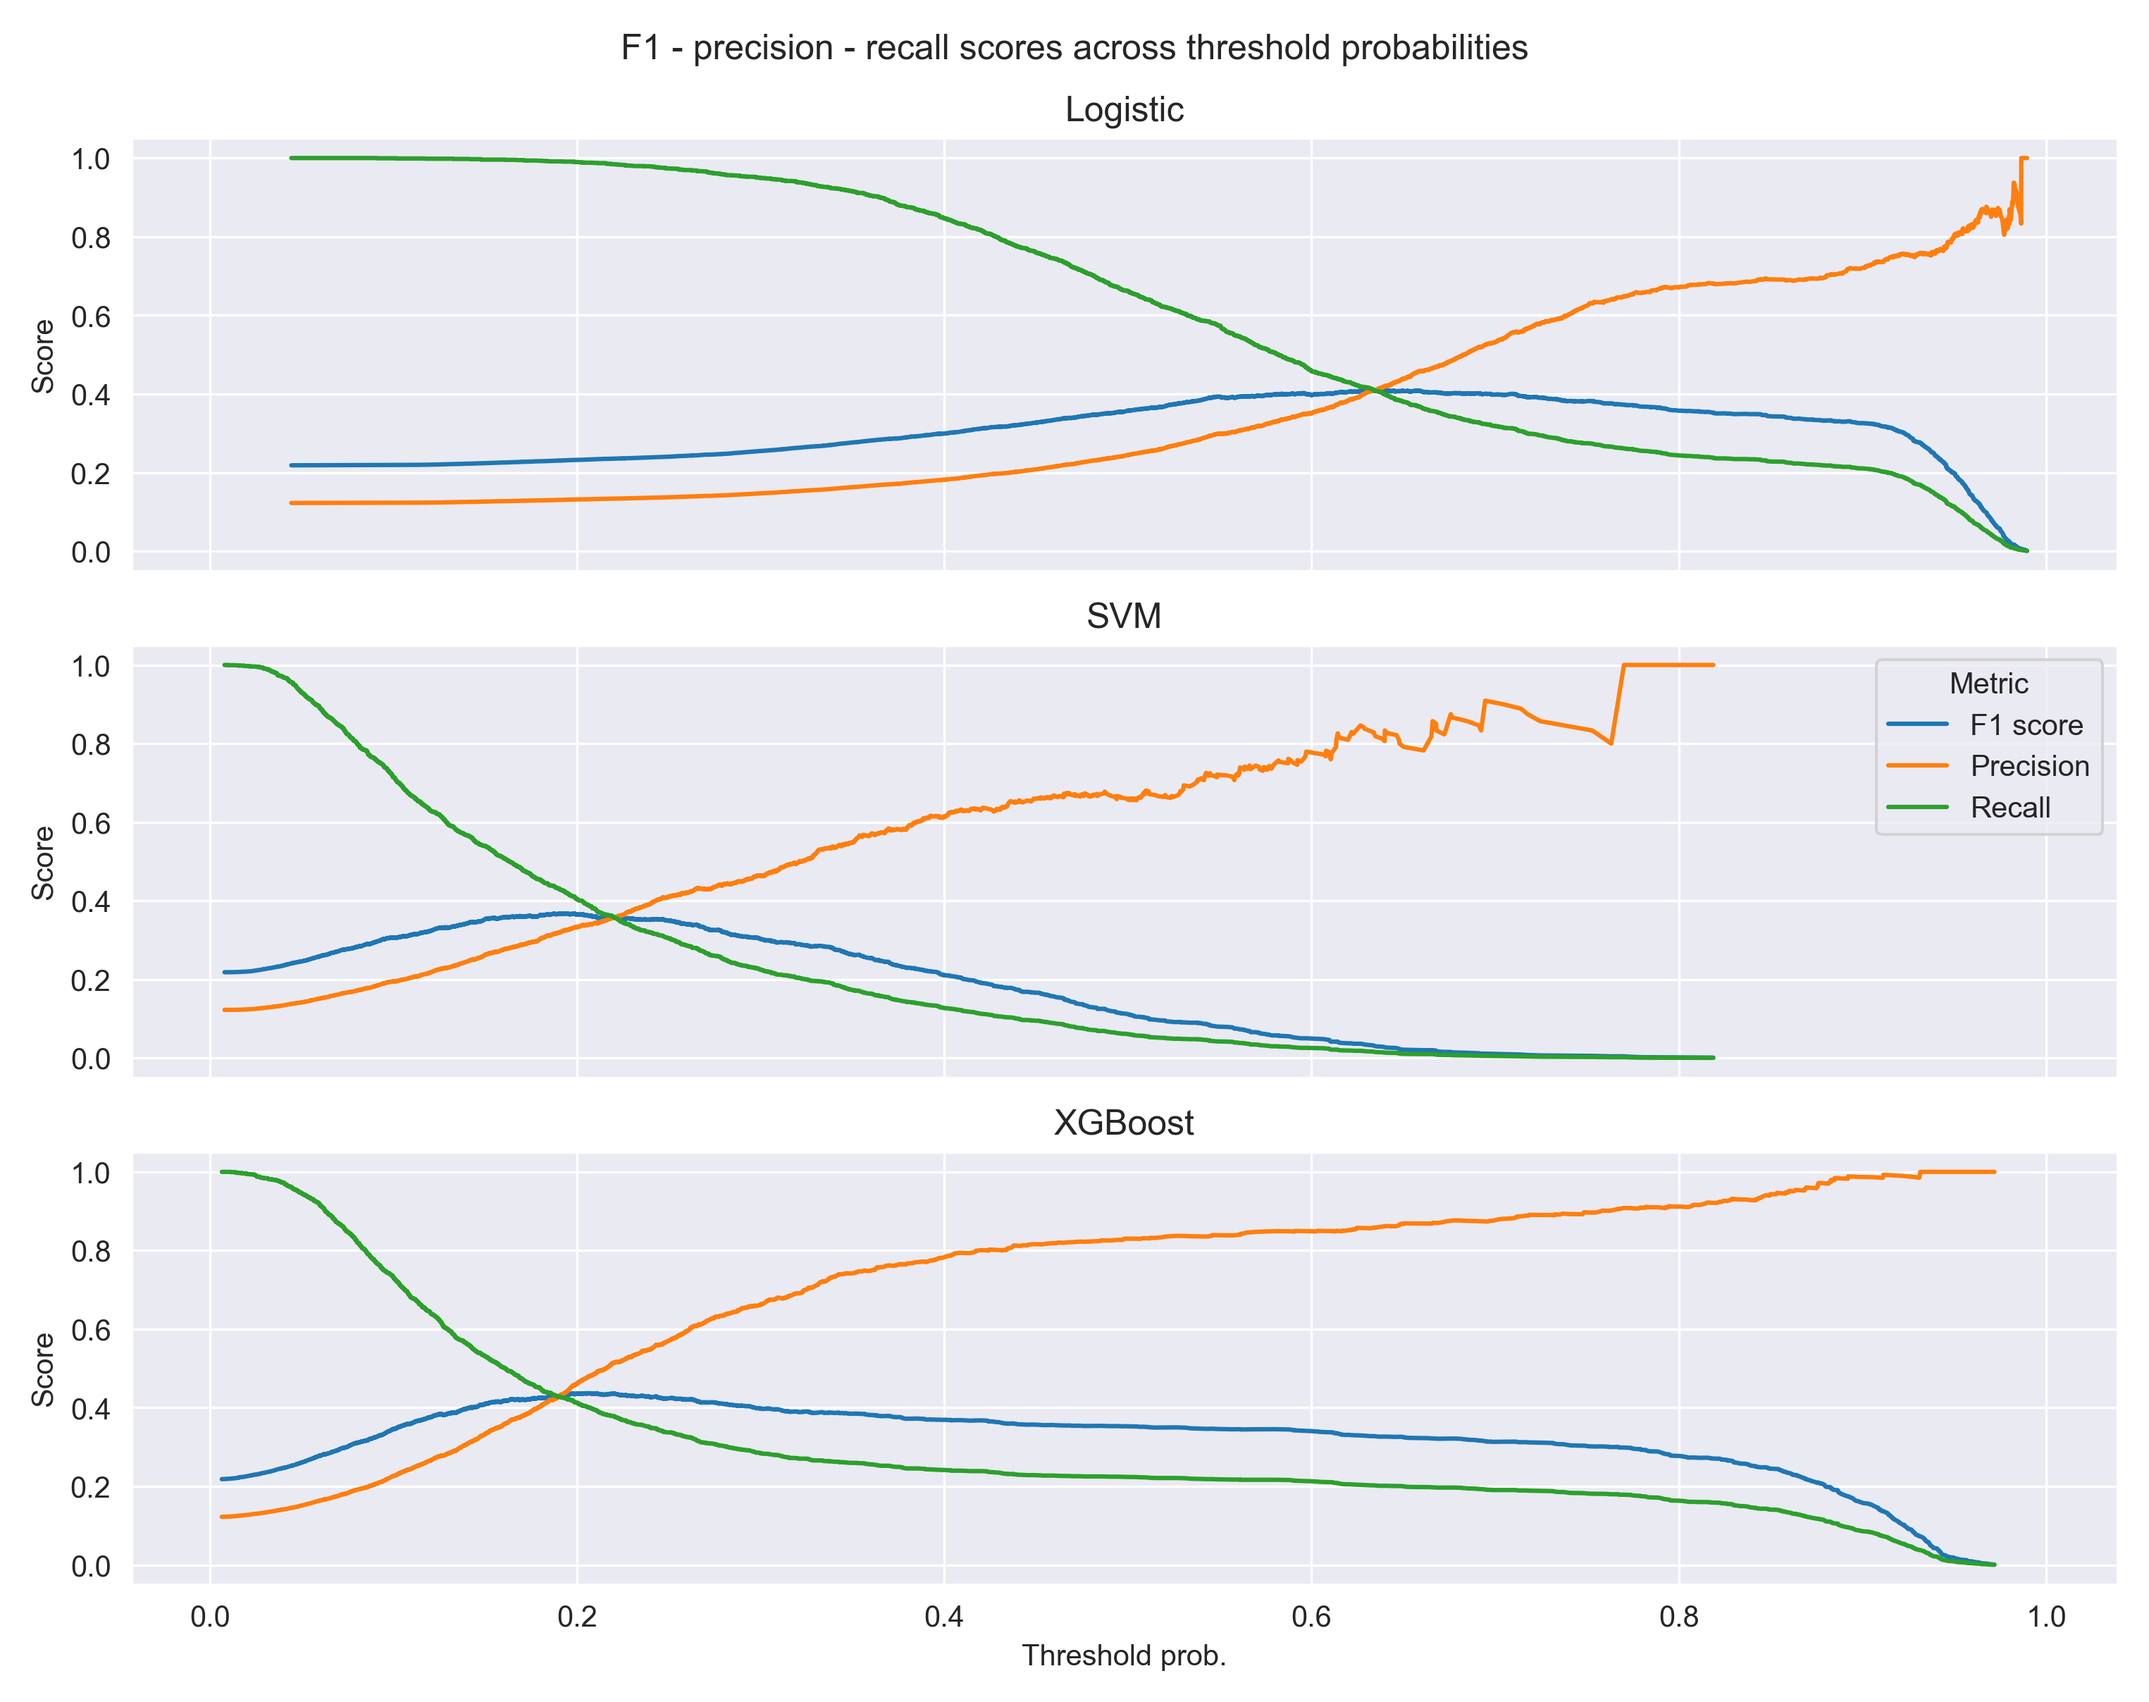
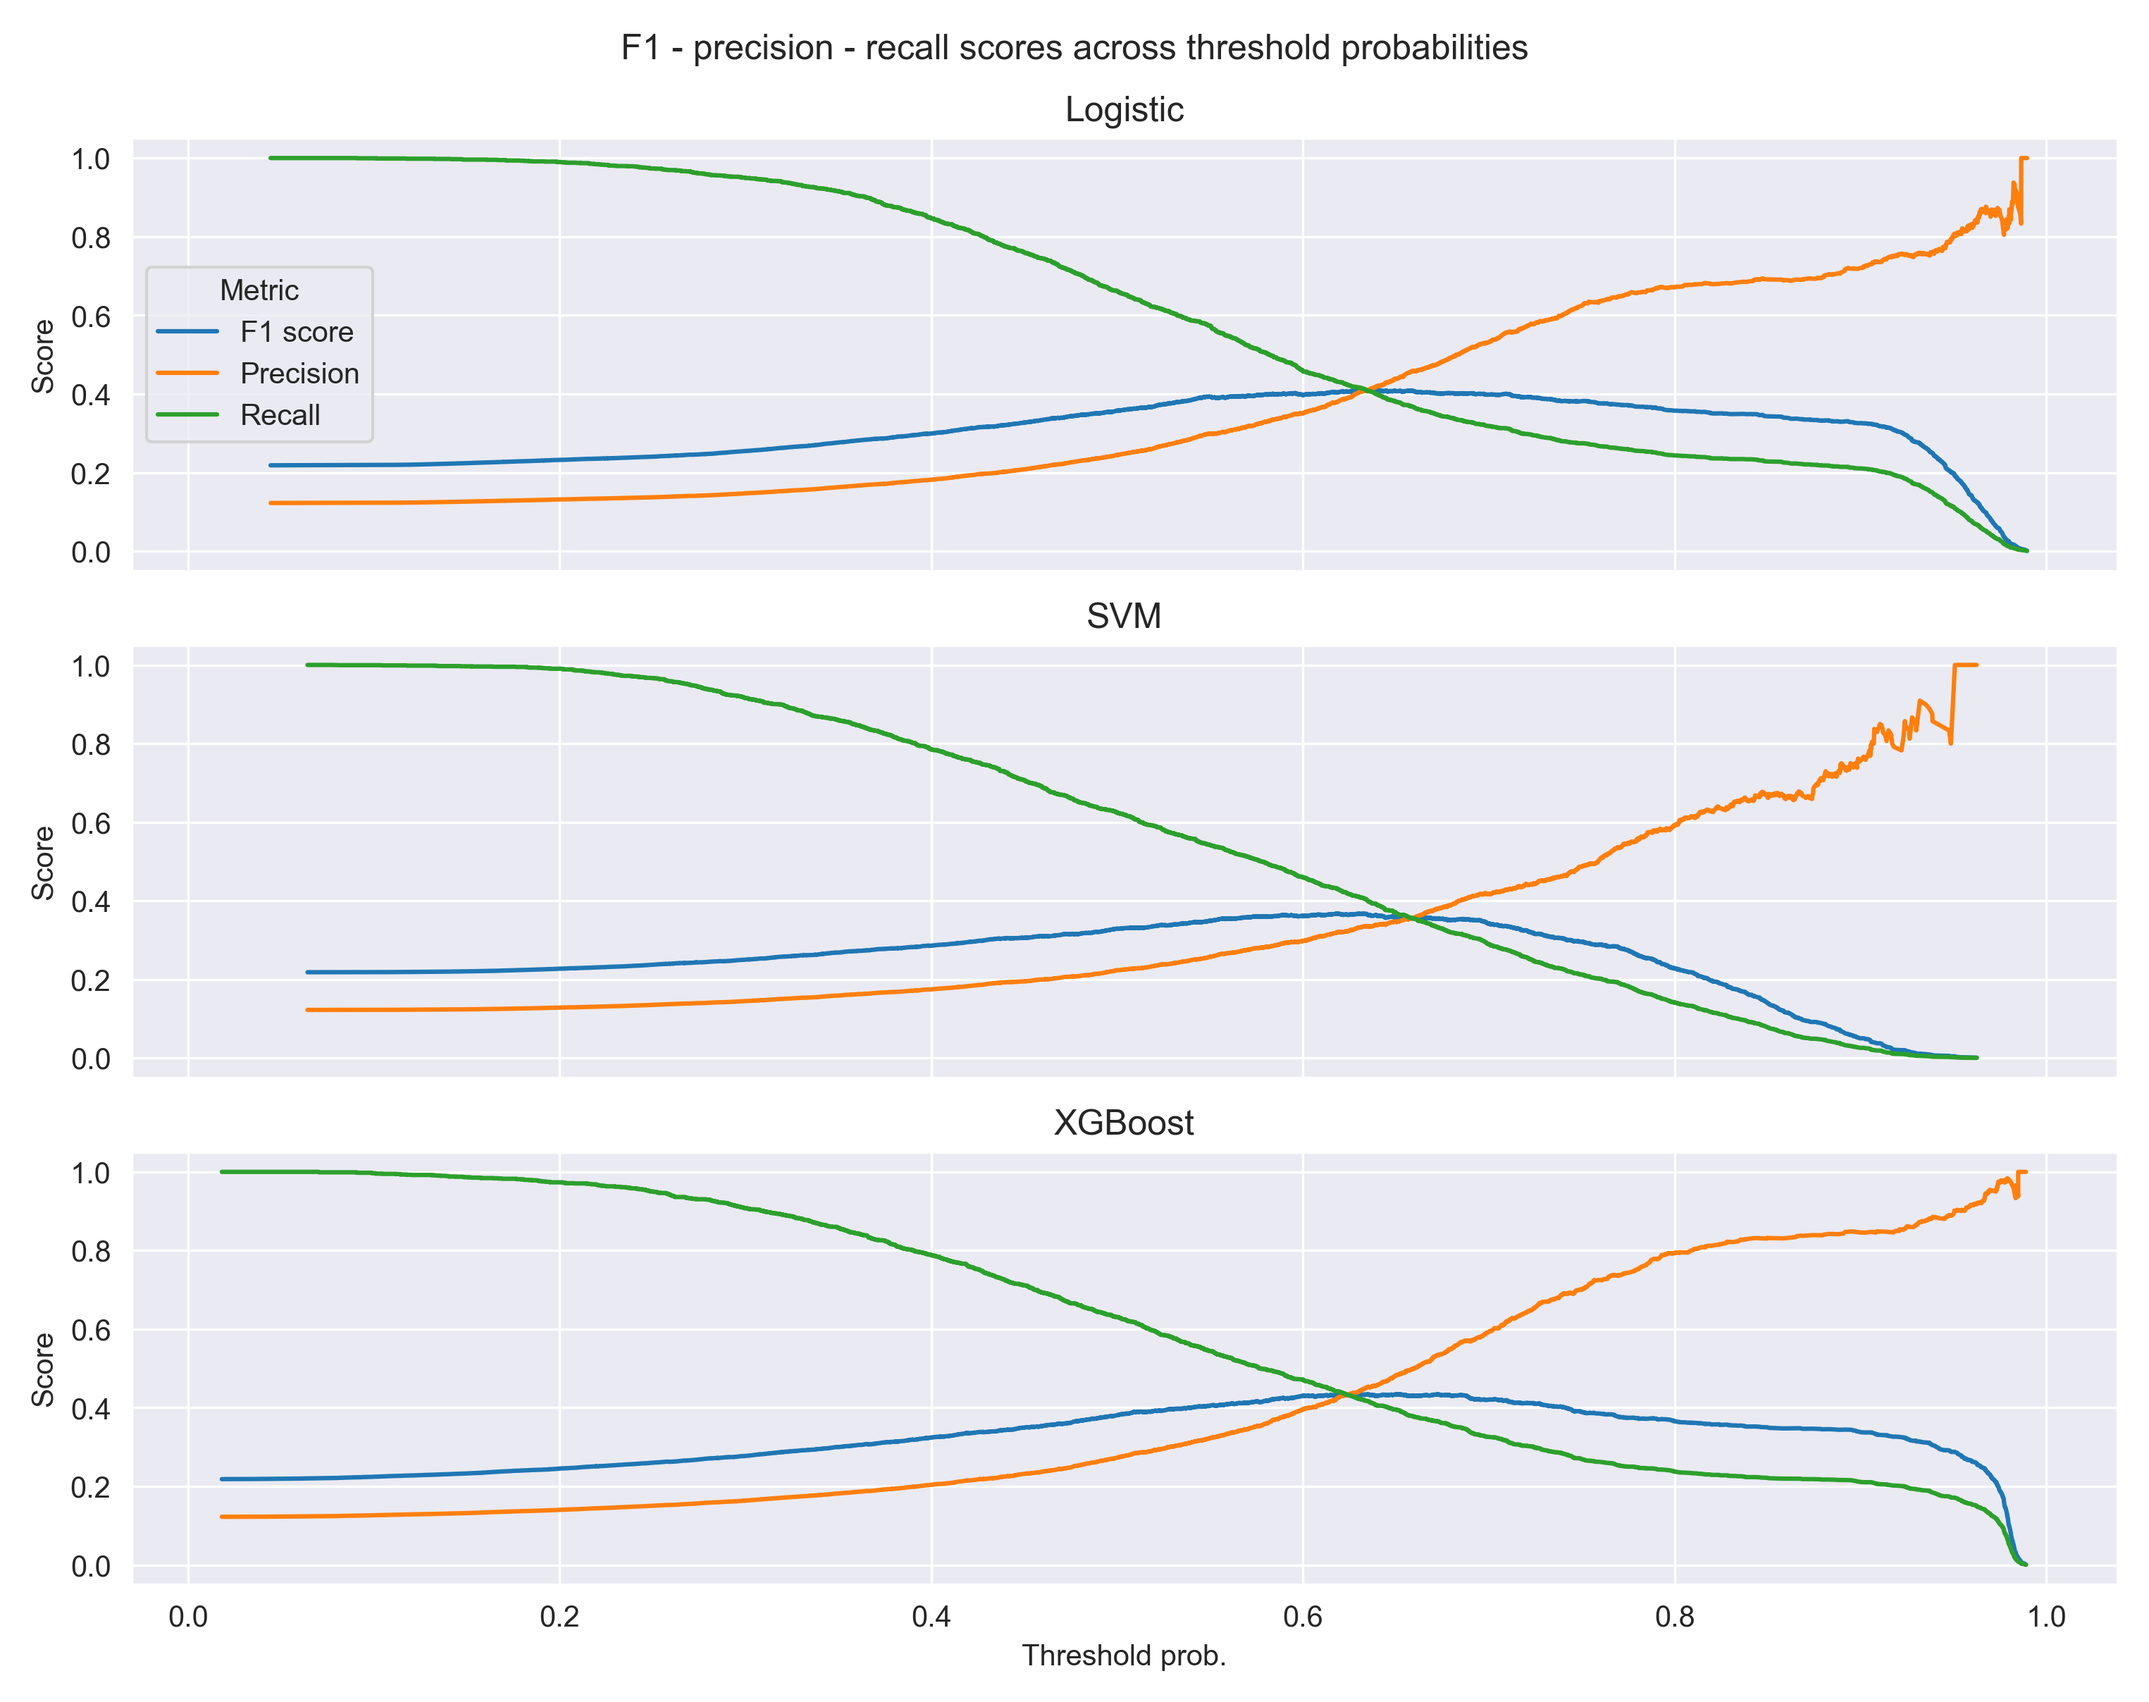
Rescore scikit classifiers with correct class weights

diff --git a/06_ModelScoring.py b/06_ModelScoring.py
@@ -42,7 +42,7 @@ model_dummy = DummyClassifier(strategy = "prior")
 best_trial_logistic = pd.read_csv("./ModifiedData/trials_logistic.csv").iloc[0,]
 pipe_logistic = Pipeline(steps = [
   ("preprocessing", pipe_process),
-  ("model_logistic", SGDClassifier(
+  ("Logistic", SGDClassifier(
       loss = "log_loss",
       penalty = "elasticnet",
       alpha = best_trial_logistic["params_reg_strength"],
@@ -52,8 +52,7 @@ pipe_logistic = Pipeline(steps = [
       random_state = 1923,
       early_stopping = True,
       validation_fraction = 0.1,
-      n_iter_no_change = 10,
-      class_weight = "balanced"
+      n_iter_no_change = 10
     )
   )
 ])
@@ -63,13 +62,13 @@ pipe_logistic = Pipeline(steps = [
 best_trial_svm = pd.read_csv("./ModifiedData/trials_svm.csv").iloc[0,]
 pipe_svm = Pipeline(steps = [
   ("preprocessing", pipe_process),
-  ("kernel_rbf", RBFSampler(
+  ("KernelTrick", RBFSampler(
       gamma = "scale",
       n_components = 100,
       random_state = 1923
     )
   ),
-  ("model_svm", CalibratedClassifierCV(SGDClassifier(
+  ("SVM", CalibratedClassifierCV(SGDClassifier(
       loss = "hinge",
       penalty = "elasticnet",
       alpha = best_trial_svm["params_reg_strength"],
@@ -79,8 +78,7 @@ pipe_svm = Pipeline(steps = [
       random_state = 1923,
       early_stopping = True,
       validation_fraction = 0.1,
-      n_iter_no_change = 10,
-      class_weight = "balanced"
+      n_iter_no_change = 10
       )
     )
   )
@@ -91,7 +89,7 @@ pipe_svm = Pipeline(steps = [
 best_trial_xgb = pd.read_csv("./ModifiedData/trials_xgb.csv").iloc[0,]
 pipe_xgb = Pipeline(steps = [
   ("preprocessing", pipe_process),
-  ("model_xgb", XGBClassifier(
+  ("XGBoost", XGBClassifier(
       objective = "binary:logistic",
       n_estimators = 30,
       eval_metric = "logloss",
@@ -129,9 +127,18 @@ scores_brier = {}
 
 for key in models_dict.keys():
   
-  # Fit model
+  # Retrieve model
   model = models_dict[key]
-  model.fit(x_train, y_train)
+  
+  # Fit model
+  if key == "Dummy":
+    model.fit(x_train, y_train)
+    
+  else:
+    
+    # Create unique sample weights argument for pipeline.fit
+    kwargs = {model.steps[-1][0] + "__sample_weight": sample_weight_train}
+    model.fit(x_train, y_train, **kwargs)
   
   # Predict class
   y_pred = model.predict(x_test)
@@ -146,7 +153,7 @@ for key in models_dict.keys():
   avg_precision = average_precision_score(y_test, preds_prob[key])
   scores_avg_precision[key] = avg_precision
   
-  # Retrieve Brier scores
+  # Retrieve Brier scores (Dummy classifier throws error with sample_weight)
   brier_score = brier_score_loss(
     y_test, preds_prob[key], sample_weight = sample_weight_test)
   scores_brier[key] = brier_score
@@ -292,14 +299,14 @@ _ = fig.suptitle("F1 - precision - recall scores across threshold probabilities"
 _ = sns.lineplot(
   ax = ax[0], 
   x = "Threshold prob.", y = "Score", hue = "Metric", 
-  data = df_f1_logistic, legend = False)
+  data = df_f1_logistic)
 _ = ax[0].set_title("Logistic")
 
 # SVM
 _ = sns.lineplot(
   ax = ax[1], 
   x = "Threshold prob.", y = "Score", hue = "Metric", 
-  data = df_f1_svm)
+  data = df_f1_svm, legend = False)
 _ = ax[1].set_title("SVM")
 
 # XGBoost
